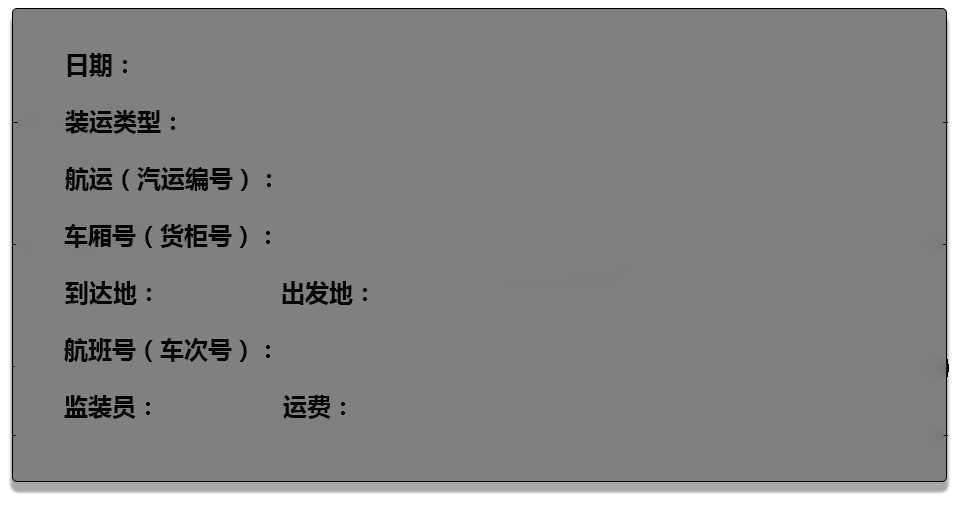
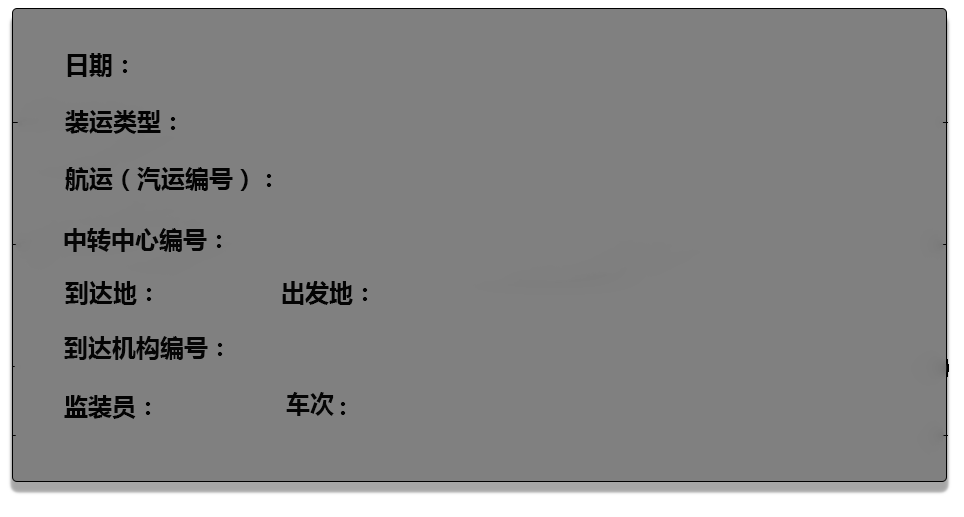
营业厅和中转中心写完了但是没有测试好

Changed region(s): [[0.0622, 0.6499, 0.2801, 0.7118], [0.0622, 0.4333, 0.2801, 0.4952], [0.2801, 0.7427, 0.3423, 0.8046]]

diff --git a/LogisticManageSystem/Client/src/main/java/edu/nju/lms/presentation/mouseListener/SaveLoadListener.java b/LogisticManageSystem/Client/src/main/java/edu/nju/lms/presentation/mouseListener/SaveLoadListener.java
@@ -1,0 +1,62 @@
+package edu.nju.lms.presentation.mouseListener;
+
+import java.awt.Component;
+import java.awt.event.MouseEvent;
+import java.util.ArrayList;
+
+import edu.nju.lms.VO.LoadVO;
+import edu.nju.lms.businessLogicService.impl.transport.TransportController;
+import edu.nju.lms.data.LoadType;
+import edu.nju.lms.data.ResultMessage;
+import edu.nju.lms.presentation.UIController;
+import edu.nju.lms.presentation.components.MyComboBox;
+import edu.nju.lms.presentation.components.MyDialog;
+import edu.nju.lms.presentation.components.MyTextField;
+import edu.nju.lms.presentation.components.table.CommodityTable;
+import edu.nju.lms.presentation.components.table.MyTableLabel;
+
+/**
+ * save load list
+ * @author cuihao
+ * @date 2015-12-07 12:57:17
+ */
+public class SaveLoadListener extends ButtonListener{
+
+	TransportController transport;
+	LoadType type[] = {LoadType.AIRPLANE,LoadType.TRAIN,LoadType.CAR};
+	String city[] = {"北京","南京","上海","广州"};
+	public SaveLoadListener(ArrayList<Component> units, UIController controller, Component button) {
+		super(units, controller, button);
+		transport = controller.getTransportController();
+	}
+
+	@Override
+	public void mouseReleased(MouseEvent e) {
+		if (transport == null)
+			return;
+		MyComboBox loadtypeBox = (MyComboBox) units.get(10);
+		MyTextField businesshallNum = (MyTextField) units.get(4);
+		MyTextField motorNUm = (MyTextField) units.get(3);
+		MyComboBox desticity = (MyComboBox) units.get(8);
+		MyTextField destibusiness = (MyTextField) units.get(5);
+		MyTextField person = (MyTextField) units.get(6);
+		MyTextField vehicle = (MyTextField) units.get(7);
+		CommodityTable table = (CommodityTable) units.get(0);
+		ArrayList<String> express = new ArrayList<String>();
+		for (MyTableLabel label : table.getDataList()) {
+			MyTextField commodity = (MyTextField) label.getComponents(0);
+			express.add(commodity.getText());
+		}
+		LoadVO load = new LoadVO("", type[loadtypeBox.getSelectedIndex()], "", businesshallNum.getText(),
+				motorNUm.getText(), city[desticity.getSelectedIndex()], destibusiness.getText(), vehicle.getText(),
+				person.getText(), express, 0);
+		LoadVO finalLoad = transport.createLoadList(load);
+		ResultMessage result = transport.saveLoadList(finalLoad);
+		if(result.isSuccess()) {
+			new MyDialog("addSucess");
+		}else{
+			new MyDialog(result.getErrorMessage(),true);
+		}
+	}
+
+}

diff --git a/LogisticManageSystem/Client/src/main/java/edu/nju/lms/presentation/mouseListener/SaveReceiptListener.java b/LogisticManageSystem/Client/src/main/java/edu/nju/lms/presentation/mouseListener/SaveReceiptListener.java
@@ -4,18 +4,47 @@ import java.awt.Component;
 import java.awt.event.MouseEvent;
 import java.util.ArrayList;
 
+import edu.nju.lms.VO.ReceiptVO;
+import edu.nju.lms.businessLogicService.impl.finance.FinanceController;
+import edu.nju.lms.data.ResultMessage;
 import edu.nju.lms.presentation.UIController;
+import edu.nju.lms.presentation.components.MyDialog;
+import edu.nju.lms.presentation.components.MyTextField;
+import edu.nju.lms.presentation.components.table.CommodityTable;
+import edu.nju.lms.presentation.components.table.MyTableLabel;
 
+/**
+ * save receipt
+ * @author cuihao
+ * @date 2015-12-07 10:52:43
+ */
 public class SaveReceiptListener extends ButtonListener{
 
+	FinanceController finance;
+	
 	public SaveReceiptListener(ArrayList<Component> units, UIController controller, Component button) {
 		super(units, controller, button);
-		
+		finance = controller.getFinanceController();
 	}
 
 	@Override
 	public void mouseReleased(MouseEvent e) {
-		
+		MyTextField courier = (MyTextField) units.get(3);
+		MyTextField money = (MyTextField) units.get(4);
+		CommodityTable table = (CommodityTable) units.get(0);
+		ArrayList<String> express = new ArrayList<String>();
+		for(MyTableLabel label: table.getDataList()) {
+			MyTextField commodity = (MyTextField) label.getComponents(0);
+			express.add(commodity.getText());
+		}
+		ReceiptVO receipt = new ReceiptVO("", "", Double.parseDouble(money.getText()), courier.getText(), express);
+		ReceiptVO finalReceipt = finance.createReceipt(receipt);
+		ResultMessage result = finance.addReceipt(finalReceipt);
+		if(result.isSuccess()) {
+			new MyDialog("addSucess");
+		}else{
+			new MyDialog(result.getErrorMessage(),true);
+		}
 	}
 
 }

diff --git a/LogisticManageSystem/Client/src/main/java/edu/nju/lms/presentation/mouseListener/AddDriverListener.java b/LogisticManageSystem/Client/src/main/java/edu/nju/lms/presentation/mouseListener/AddDriverListener.java
@@ -41,7 +41,7 @@ public class AddDriverListener extends ButtonListener{
 		@SuppressWarnings("unchecked")
 		MyComboBox<String> sex = (MyComboBox<String>) units.get(5);
 		Calendar c = date.getCalendar();
-		String birth = c.get(Calendar.YEAR) + "/" + (c.get(Calendar.MONTH) + 1) + "/" + c.get(Calendar.DATE);
+		String birth = c.get(Calendar.YEAR) + "-" + (c.get(Calendar.MONTH) + 1) + "-" + c.get(Calendar.DATE);
 		DriverVO driver = new DriverVO("", name.getText(), birth, idCard.getText(), phone.getText(),
 				sex.getSelectedIndex(), limit.getText(), businesshall.getText());
 		DriverVO finalDriver = transport.addDriver(driver);

diff --git a/LogisticManageSystem/Client/src/main/java/edu/nju/lms/presentation/mouseListener/SaveArrivalListener.java b/LogisticManageSystem/Client/src/main/java/edu/nju/lms/presentation/mouseListener/SaveArrivalListener.java
@@ -12,8 +12,12 @@ import edu.nju.lms.presentation.UIController;
 import edu.nju.lms.presentation.components.MyComboBox;
 import edu.nju.lms.presentation.components.MyDialog;
 import edu.nju.lms.presentation.components.MyTextField;
-import edu.nju.lms.presentation.components.table.CommodityTable;
 
+/**
+ * save arival
+ * @author cuihao
+ * @date 2015-12-07 10:55:13
+ */
 public class SaveArrivalListener extends ButtonListener{
 
 	TransportController transport;

diff --git a/LogisticManageSystem/Client/src/main/java/edu/nju/lms/presentation/components/DateChooser.java b/LogisticManageSystem/Client/src/main/java/edu/nju/lms/presentation/components/DateChooser.java
@@ -88,7 +88,7 @@ public class DateChooser extends JPanel {
 	}
 	
 	public DateChooser(Element element, UIController controller) {
-		this("yyyy/MM/dd");
+		this("yyyy-MM-dd");
 		setBounds(Integer.parseInt(element.attributeValue("x")), Integer.parseInt(element.attributeValue("y")),
 				Integer.parseInt(element.attributeValue("w")), Integer.parseInt(element.attributeValue("h")));
 	}
